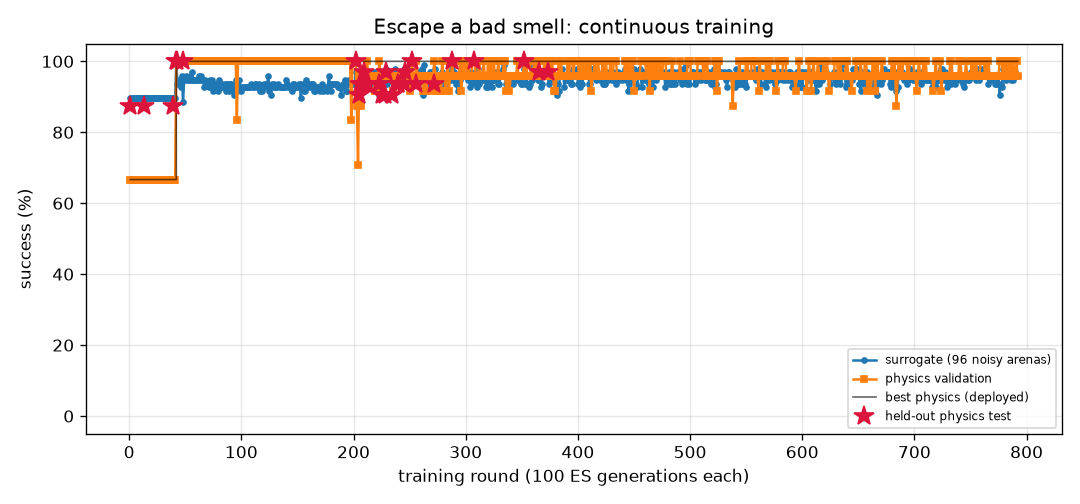
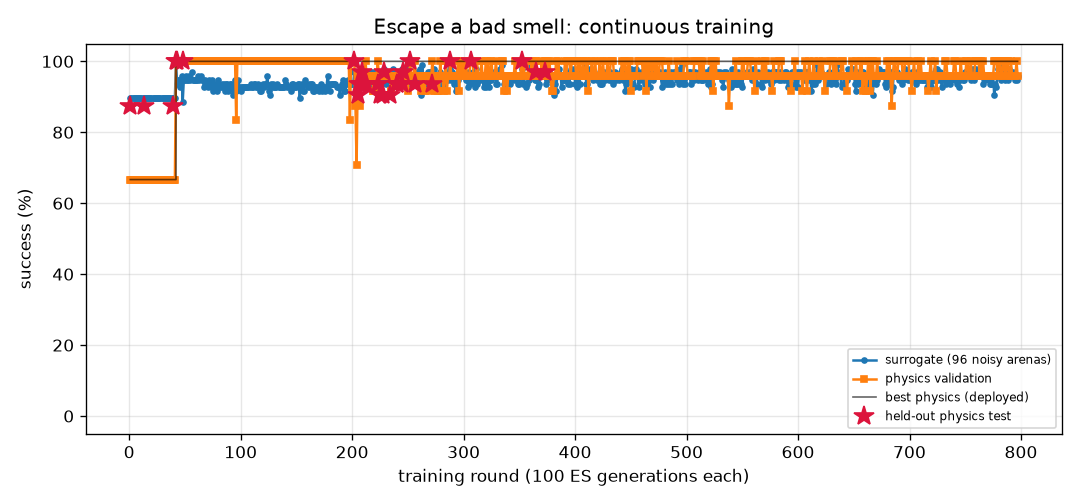
FlyLab: continuous training progress
- walk_forward: optimal, physics val 100% of 24, round 300
- turn: optimal, physics val 100% of 24, round 886
- goto: optimal, physics val 100% of 24, round 245
- odor_seek: optimal, physics val 100% of 24, round 201
- odor_avoid: optimal, physics val 100% of 24, round 797
- light_seek: optimal, physics val 100% of 24, round 437
- light_avoid: optimal, physics val 100% of 24, round 528

diff --git a/projects/09_flylab/training/odor_avoid/REPORT.md b/projects/09_flylab/training/odor_avoid/REPORT.md
@@ -1,14 +1,14 @@
 # Escape a bad smell (`odor_avoid`) — training report
 
-*Auto-generated by `train_brains.py`, last updated 2026-11-05T19:27:06.*
+*Auto-generated by `train_brains.py`, last updated 2026-11-06T00:26:54.*
 
 ![curve](curve.png)
 
 | | |
 |---|---|
-| rounds | 792 |
-| ES generations | 79200 |
-| physics runs | 16314 |
+| rounds | 797 |
+| ES generations | 79700 |
+| physics runs | 16434 |
 | status | **optimal** |
 | best brain | round 373: physics validation **100%** on 24 arenas, surrogate 97% |
 | held-out physics test | **97%** on 32 unseen arenas (95% CI 84%-99%) (errors: [62.0, 57.4, 62.6, 61.9, 59.0, 61.6, 56.5, 60.7, 31.7, 60.9, 63.1, 57.1, 61.1, 62.1, 61.5, 60.2, 62.2, 55.2, 62.1, 54.2, 61.3, 62.0, 58.0, 61.9, 59.8, 56.5, 56.3, 56.4, 56.3, 57.7, 61.9, 32.4]) |
@@ -17,11 +17,6 @@ Physics error per arena: mm gained away from source (> 6 without first approachi
 
 | round | level | gens | sigma | surrogate | physics val | val errors | test | note |
 |---:|---:|---:|---:|---:|---:|---|---:|---|
-| 753 | 3 | 75300 | 0.026 | 96% | 96% | [58.8, 56.4, 55.1, 56.4, 59.1, 59.6, 59.2, 33.3, 59.3, 59.2, 59.5, 60.1, 52.4, 54.9, 38.0, 58.9, 60.1, 59.8, 53.2, 53.0, 60.0, 58.2, 56.9, 33.1] |  | restart from best |
-| 754 | 3 | 75400 | 0.026 | 98% | 96% | [61.8, 56.7, 56.3, 59.9, 62.2, 62.0, 61.9, 42.3, 62.0, 60.9, 61.5, 61.7, 51.4, 56.2, 30.3, 62.2, 61.8, 61.9, 55.0, 56.6, 61.9, 60.6, 61.0, 59.8] |  |  |
-| 755 | 3 | 75500 | 0.025 | 95% | 100% | [62.4, 58.4, 56.5, 61.4, 62.6, 61.4, 61.5, 61.7, 61.3, 60.7, 62.1, 62.0, 55.2, 56.2, 51.9, 62.8, 62.0, 62.6, 55.2, 57.4, 61.9, 62.4, 58.5, 62.8] |  |  |
-| 756 | 3 | 75600 | 0.027 | 96% | 96% | [62.5, 60.7, 56.0, 61.1, 61.8, 60.3, 62.0, 45.8, 62.1, 53.4, 56.9, 61.6, 50.2, 54.6, 0.4, 62.4, 61.6, 61.5, 49.8, 59.7, 61.7, 61.3, 57.6, 61.8] |  |  |
-| 757 | 3 | 75700 | 0.026 | 98% | 96% | [61.3, 58.7, 56.6, 59.1, 61.8, 60.9, 61.5, 51.7, 61.6, 54.8, 60.0, 61.7, 49.1, 54.0, 41.7, 61.6, 61.2, 61.6, 49.9, 55.0, 61.4, 61.4, 59.4, 60.7] |  | restart from best |
 | 758 | 3 | 75800 | 0.026 | 95% | 96% | [62.9, 59.5, 56.7, 61.3, 61.9, 62.5, 61.7, 58.6, 61.7, 62.3, 62.2, 61.9, 51.2, 56.2, 41.3, 62.4, 62.1, 62.4, 55.0, 57.6, 61.8, 60.7, 60.3, 62.1] |  |  |
 | 759 | 3 | 75900 | 0.027 | 96% | 100% | [60.7, 60.1, 56.0, 60.2, 51.8, 55.8, 61.4, 60.7, 61.8, 58.2, 52.3, 61.7, 48.0, 54.8, 29.3, 62.3, 61.5, 59.9, 53.4, 58.9, 61.3, 61.5, 57.4, 61.5] |  |  |
 | 760 | 3 | 76000 | 0.026 | 98% | 100% | [63.0, 60.5, 56.4, 61.5, 62.4, 62.4, 61.5, 52.9, 61.6, 56.6, 50.8, 61.9, 50.1, 55.8, 19.4, 61.5, 62.3, 48.4, 54.6, 57.0, 62.4, 62.3, 59.6, 51.5] |  |  |
@@ -57,3 +52,8 @@ Physics error per arena: mm gained away from source (> 6 without first approachi
 | 790 | 3 | 79000 | 0.026 | 97% | 96% | [63.2, 61.6, 56.2, 58.8, 62.6, 62.0, 61.8, 50.7, 60.9, 29.8, 61.4, 62.1, 52.2, 52.1, 36.5, 60.4, 62.5, 61.8, 55.5, 60.5, 62.1, 60.3, 55.8, 36.2] |  |  |
 | 791 | 3 | 79100 | 0.026 | 96% | 100% | [62.5, 60.9, 56.4, 61.4, 61.5, 62.2, 62.3, 61.4, 62.5, 43.8, 34.5, 61.7, 48.8, 54.3, 34.0, 62.2, 61.8, 62.5, 50.0, 60.8, 61.7, 49.1, 61.1, 62.5] |  |  |
 | 792 | 3 | 79200 | 0.026 | 96% | 96% | [63.2, 61.3, 56.5, 61.3, 62.2, 61.8, 62.0, 55.2, 61.8, 61.8, 61.1, 62.0, 54.9, 56.1, 27.5, 61.8, 62.3, 60.3, 55.4, 57.1, 62.1, 62.3, 59.8, 60.2] |  |  |
+| 793 | 3 | 79300 | 0.026 | 97% | 96% | [63.0, 59.1, 56.6, 61.5, 61.9, 62.2, 61.1, 41.3, 61.2, 61.8, 61.0, 61.8, 52.7, 56.4, 45.2, 62.0, 62.4, 62.3, 55.8, 57.3, 62.6, 61.4, 59.6, 62.1] |  | restart from best |
+| 794 | 3 | 79400 | 0.026 | 96% | 96% | [63.4, 61.1, 57.1, 58.2, 61.4, 62.3, 62.0, 33.1, 60.4, 60.4, 62.0, 61.2, 52.3, 56.2, 38.2, 61.0, 61.7, 61.1, 55.0, 57.3, 61.4, 59.5, 55.9, 42.3] |  |  |
+| 795 | 3 | 79500 | 0.026 | 95% | 96% | [62.9, 54.0, 57.9, 57.7, 61.7, 61.4, 61.5, 59.0, 59.8, 60.7, 62.1, 61.0, 54.6, 58.1, 40.3, 62.0, 61.4, 61.9, 55.4, 54.7, 61.3, 61.0, 57.5, 59.2] |  |  |
+| 796 | 3 | 79600 | 0.027 | 95% | 100% | [63.4, 59.1, 58.1, 56.6, 62.1, 62.4, 62.1, 59.2, 60.1, 60.9, 58.9, 59.8, 52.6, 55.0, 43.2, 62.8, 60.4, 62.6, 53.9, 54.4, 60.2, 63.2, 57.4, 62.8] |  |  |
+| 797 | 3 | 79700 | 0.027 | 96% | 96% | [63.4, 61.6, 55.9, 58.5, 62.4, 62.8, 62.1, 63.1, 60.7, 63.0, 60.0, 61.6, 53.0, 56.7, 33.4, 62.6, 61.4, 62.7, 55.1, 56.0, 61.5, 63.2, 58.5, 63.5] |  | restart from best |

diff --git a/projects/09_flylab/training/turn/REPORT.md b/projects/09_flylab/training/turn/REPORT.md
@@ -1,14 +1,14 @@
 # Turn in place (`turn`) — training report
 
-*Auto-generated by `train_brains.py`, last updated 2026-11-05T23:30:46.*
+*Auto-generated by `train_brains.py`, last updated 2026-11-06T00:05:13.*
 
 ![curve](curve.png)
 
 | | |
 |---|---|
-| rounds | 881 |
-| ES generations | 88100 |
-| physics runs | 21390 |
+| rounds | 886 |
+| ES generations | 88600 |
+| physics runs | 21510 |
 | status | **optimal** |
 | best brain | round 80: physics validation **100%** on 24 arenas, surrogate 100% |
 | held-out physics test | **97%** on 32 unseen arenas (95% CI 84%-99%) (errors: [1.6, 3.3, 6.3, 3.7, 1.1, 0.4, 2.4, 2.9, 0.1, 2.6, 0.5, 2.7, 1.5, 3.1, 4.5, 0.2, 0.5, 1.1, 2.0, 4.4, 2.8, 3.2, 0.3, 2.2, 0.5, 3.0, 0.3, 5.4, 0.4, 1.0, 4.7, 10.7]) |
@@ -17,11 +17,6 @@ Physics error per arena: deg from target heading (< 20 = success).
 
 | round | level | gens | sigma | surrogate | physics val | val errors | test | note |
 |---:|---:|---:|---:|---:|---:|---|---:|---|
-| 842 | 3 | 84200 | 0.026 | 100% | 92% | [5.0, 7.4, 7.9, 0.7, 6.4, 0.9, 2.0, 2.3, 2.7, 0.3, 4.1, 2.3, 3.0, 4.5, 4.7, 0.2, 1.9, 1.0, 1.2, 1.4, 6.2, 0.1, 2.4, 1.8] |  |  |
-| 843 | 3 | 84300 | 0.024 | 99% | 88% | [4.6, 6.3, 0.5, 1.4, 1.8, 0.0, 6.8, 4.8, 5.5, 0.1, 5.0, 0.5, 0.0, 3.0, 3.7, 9.2, 1.0, 1.5, 0.6, 1.0, 4.7, 1.5, 5.3, 4.7] |  |  |
-| 844 | 3 | 84400 | 0.025 | 100% | 92% | [5.9, 8.5, 6.9, 1.3, 1.3, 3.2, 1.3, 0.9, 3.3, 2.1, 2.8, 1.9, 0.8, 4.2, 2.3, 1.1, 1.9, 1.1, 2.2, 0.8, 6.4, 0.2, 3.2, 3.7] |  | restart from best |
-| 845 | 3 | 84500 | 0.024 | 100% | 79% | [4.0, 0.4, 6.1, 0.4, 0.5, 11.3, 7.1, 7.6, 6.9, 0.5, 4.7, 1.8, 0.8, 0.3, 6.0, 1.4, 1.9, 0.8, 1.5, 1.9, 6.1, 0.7, 6.3, 7.1] |  |  |
-| 846 | 3 | 84600 | 0.024 | 100% | 96% | [2.0, 4.3, 11.1, 0.4, 0.5, 1.3, 5.7, 6.5, 6.5, 0.5, 4.0, 1.6, 1.4, 2.1, 3.2, 0.9, 1.4, 1.1, 0.7, 0.9, 2.6, 2.1, 7.0, 1.5] |  |  |
 | 847 | 3 | 84700 | 0.024 | 98% | 96% | [5.0, 4.8, 2.4, 3.8, 1.0, 10.4, 5.1, 0.3, 4.5, 0.6, 4.0, 0.4, 1.9, 2.8, 4.4, 0.3, 0.7, 0.7, 0.2, 0.2, 4.5, 1.3, 4.7, 5.6] |  |  |
 | 848 | 3 | 84800 | 0.025 | 99% | 92% | [7.6, 4.0, 1.5, 2.0, 4.1, 3.9, 5.8, 5.0, 4.0, 0.8, 3.8, 1.0, 1.6, 2.1, 3.4, 1.4, 1.0, 0.7, 2.8, 9.4, 6.0, 2.0, 5.6, 4.3] |  | restart from best |
 | 849 | 3 | 84900 | 0.024 | 100% | 79% | [3.1, 1.5, 4.6, 2.9, 5.3, 0.5, 7.7, 3.7, 5.5, 1.1, 4.1, 1.2, 1.6, 2.4, 4.6, 0.2, 1.2, 2.5, 0.3, 1.0, 2.0, 0.6, 6.1, 4.5] |  |  |
@@ -57,3 +52,8 @@ Physics error per arena: deg from target heading (< 20 = success).
 | 879 | 3 | 87900 | 0.024 | 99% | 79% | [8.1, 9.0, 1.3, 2.2, 6.6, 5.2, 4.9, 3.2, 3.6, 0.3, 3.9, 3.8, 1.9, 3.2, 2.3, 0.9, 3.6, 0.2, 0.8, 1.3, 8.0, 2.0, 3.2, 3.3] |  |  |
 | 880 | 3 | 88000 | 0.025 | 100% | 83% | [3.4, 6.5, 1.4, 1.3, 2.8, 2.4, 3.8, 7.5, 4.2, 0.5, 4.4, 1.4, 0.7, 3.9, 5.1, 1.0, 1.0, 0.7, 0.2, 0.9, 3.4, 1.1, 4.9, 3.5] |  | restart from best |
 | 881 | 3 | 88100 | 0.024 | 99% | 62% | [8.7, 6.5, 7.4, 3.8, 3.1, 3.1, 4.0, 2.8, 4.2, 0.6, 3.3, 1.5, 1.9, 0.7, 3.0, 0.9, 0.7, 1.7, 0.6, 0.0, 6.8, 3.4, 3.2, 3.5] |  |  |
+| 882 | 3 | 88200 | 0.025 | 99% | 92% | [4.3, 6.5, 3.5, 3.1, 1.2, 3.2, 3.8, 4.4, 3.0, 0.9, 3.1, 1.0, 1.5, 3.1, 2.8, 1.1, 0.8, 0.0, 0.3, 1.5, 2.9, 1.0, 6.4, 4.2] |  |  |
+| 883 | 3 | 88300 | 0.025 | 100% | 88% | [0.6, 0.9, 2.7, 0.5, 3.4, 2.0, 7.3, 7.1, 7.0, 2.5, 3.1, 2.7, 0.3, 0.6, 1.3, 4.1, 3.1, 1.6, 11.4, 12.9, 0.2, 2.7, 7.9, 5.3] |  |  |
+| 884 | 3 | 88400 | 0.024 | 100% | 96% | [2.9, 1.0, 4.2, 1.4, 14.1, 0.3, 5.6, 7.6, 5.7, 13.9, 3.7, 2.8, 0.0, 1.2, 4.6, 3.0, 1.3, 1.3, 2.9, 5.4, 5.1, 1.2, 4.8, 3.2] |  | restart from best |
+| 885 | 3 | 88500 | 0.024 | 99% | 79% | [4.5, 1.3, 4.0, 0.7, 0.9, 0.6, 4.6, 2.0, 7.9, 0.1, 5.9, 0.3, 0.7, 2.7, 5.9, 1.0, 0.1, 2.7, 3.9, 3.1, 5.4, 2.8, 6.6, 7.3] |  |  |
+| 886 | 3 | 88600 | 0.025 | 98% | 75% | [6.5, 9.0, 10.1, 0.7, 3.6, 3.9, 4.2, 0.9, 3.7, 0.9, 2.7, 2.0, 0.0, 4.9, 2.6, 1.3, 2.3, 0.5, 2.8, 1.2, 6.3, 1.3, 2.2, 0.4] |  |  |

diff --git a/projects/09_flylab/training/odor_seek/REPORT.md b/projects/09_flylab/training/odor_seek/REPORT.md
@@ -1,14 +1,14 @@
 # Find food by smell (`odor_seek`) — training report
 
-*Auto-generated by `train_brains.py`, last updated 2026-11-05T23:26:26.*
+*Auto-generated by `train_brains.py`, last updated 2026-11-05T23:45:34.*
 
 ![curve](curve.png)
 
 | | |
 |---|---|
-| rounds | 200 |
-| ES generations | 20000 |
-| physics runs | 4230 |
+| rounds | 201 |
+| ES generations | 20100 |
+| physics runs | 4254 |
 | status | **optimal** |
 | best brain | round 137: physics validation **100%** on 24 arenas, surrogate 100% |
 | held-out physics test | **100%** on 32 unseen arenas (95% CI 89%-100%) (errors: [0.14, 0.05, 0.19, 0.15, 0.13, 0.08, 0.06, 0.06, 0.04, 0.06, 0.02, 0.11, 0.05, 0.1, 0.06, 0.01, 0.11, 0.12, 0.14, 0.08, 0.12, 0.06, 0.06, 0.09, 0.12, 0.05, 0.07, 0.07, 0.12, 0.11, 0.06, 0.11]) |
@@ -17,7 +17,6 @@ Physics error per arena: mm from target at the end (< 1.5 and standing still = s
 
 | round | level | gens | sigma | surrogate | physics val | val errors | test | note |
 |---:|---:|---:|---:|---:|---:|---|---:|---|
-| 161 | 3 | 16100 | 0.024 | 100% | 100% | [0.19, 0.16, 0.22, 0.16, 0.16, 0.19, 0.2, 0.2, 0.19, 0.19, 0.27, 0.16, 0.17, 0.14, 0.19, 0.13, 0.28, 0.19, 0.16, 0.16, 0.19, 0.18, 0.16, 0.28] |  | restart from best |
 | 162 | 3 | 16200 | 0.024 | 100% | 100% | [0.08, 0.08, 0.13, 0.1, 0.14, 0.13, 0.01, 0.09, 0.02, 0.15, 0.08, 0.06, 0.07, 0.08, 0.14, 0.02, 0.16, 0.11, 0.03, 0.07, 0.06, 0.05, 0.05, 0.01] |  |  |
 | 163 | 3 | 16300 | 0.024 | 100% | 100% | [0.08, 0.13, 0.1, 0.1, 0.1, 0.06, 0.06, 0.08, 0.18, 0.08, 0.09, 0.12, 0.12, 0.1, 0.06, 0.1, 0.08, 0.13, 0.11, 0.04, 0.09, 0.09, 0.1, 0.23] |  |  |
 | 164 | 3 | 16400 | 0.024 | 100% | 100% | [0.06, 0.17, 0.11, 0.14, 0.16, 0.17, 0.17, 0.09, 0.12, 0.13, 0.12, 0.12, 0.12, 0.18, 0.21, 0.15, 0.16, 0.15, 0.14, 0.18, 0.14, 0.04, 0.14, 0.11] |  |  |
@@ -57,3 +56,4 @@ Physics error per arena: mm from target at the end (< 1.5 and standing still = s
 | 198 | 3 | 19800 | 0.024 | 100% | 100% | [0.15, 0.17, 0.15, 0.18, 0.11, 0.14, 0.15, 0.18, 0.15, 0.21, 0.2, 0.18, 0.18, 0.08, 0.18, 0.07, 0.18, 0.18, 0.11, 0.13, 0.21, 0.09, 0.06, 0.09] |  |  |
 | 199 | 3 | 19900 | 0.024 | 100% | 100% | [0.22, 0.16, 0.12, 0.16, 0.14, 0.15, 0.17, 0.16, 0.15, 0.15, 0.16, 0.15, 0.13, 0.18, 0.16, 0.16, 0.1, 0.23, 0.1, 0.2, 0.17, 0.21, 0.19, 0.17] |  |  |
 | 200 | 3 | 20000 | 0.024 | 100% | 100% | [0.12, 0.12, 0.09, 0.16, 0.14, 0.2, 0.14, 0.17, 0.23, 0.23, 0.14, 0.16, 0.18, 0.14, 0.12, 0.17, 0.08, 0.17, 0.15, 0.14, 0.15, 0.18, 0.13, 0.13] |  |  |
+| 201 | 3 | 20100 | 0.024 | 100% | 100% | [0.16, 0.14, 0.19, 0.12, 0.24, 0.17, 0.13, 0.15, 0.12, 0.18, 0.22, 0.17, 0.12, 0.12, 0.12, 0.16, 0.19, 0.16, 0.2, 0.17, 0.17, 0.21, 0.16, 0.18] |  | restart from best |

diff --git a/projects/09_flylab/training/TRAINING.md b/projects/09_flylab/training/TRAINING.md
@@ -1,15 +1,15 @@
 # FlyLab brains — continuous training log
 
-*Auto-generated by `train_brains.py`, last updated 2026-11-05T23:30:46.*
+*Auto-generated by `train_brains.py`, last updated 2026-11-06T00:26:54.*
 
 Every skill has its own brain and its own training process: surrogate ES rounds, physics validation in MuJoCo, keep-the-best selection, and a held-out physics test that is never used for selection. See each skill's report for its full round-by-round history. Mastery is progressive: passing a level (100% physics validation, >=95% surrogate) doubles the validation and test arena sets; a brain is **optimal** once it holds up at level 3 (>=95% of 24 validation arenas) AND scores >=90% on the 32 held-out test arenas. Test columns show 95% Wilson confidence intervals.
 
 | skill | rounds | ES generations | physics runs | surrogate | physics val | **physics test** | status |
 |---|---:|---:|---:|---:|---:|---:|---|
 | [Walk forward](walk_forward/REPORT.md) | 300 | 30000 | 7214 | 100% | 100% of 24 | 100% of 32 (CI 89-100%) | **optimal** |
-| [Turn in place](turn/REPORT.md) | 881 | 88100 | 21390 | 100% | 100% of 24 | 97% of 32 (CI 84-99%) | **optimal** |
+| [Turn in place](turn/REPORT.md) | 886 | 88600 | 21510 | 100% | 100% of 24 | 97% of 32 (CI 84-99%) | **optimal** |
 | [Go to a location](goto/REPORT.md) | 245 | 24500 | 5830 | 100% | 100% of 24 | 100% of 32 (CI 89-100%) | **optimal** |
-| [Find food by smell](odor_seek/REPORT.md) | 200 | 20000 | 4230 | 100% | 100% of 24 | 100% of 32 (CI 89-100%) | **optimal** |
-| [Escape a bad smell](odor_avoid/REPORT.md) | 792 | 79200 | 16314 | 97% | 100% of 24 | 97% of 32 (CI 84-99%) | **optimal** |
+| [Find food by smell](odor_seek/REPORT.md) | 201 | 20100 | 4254 | 100% | 100% of 24 | 100% of 32 (CI 89-100%) | **optimal** |
+| [Escape a bad smell](odor_avoid/REPORT.md) | 797 | 79700 | 16434 | 97% | 100% of 24 | 97% of 32 (CI 84-99%) | **optimal** |
 | [Walk toward light](light_seek/REPORT.md) | 437 | 43700 | 7368 | 100% | 100% of 24 | 100% of 32 (CI 89-100%) | **optimal** |
 | [Hide from light](light_avoid/REPORT.md) | 528 | 52800 | 12944 | 100% | 100% of 24 | 100% of 32 (CI 89-100%) | **optimal** |
